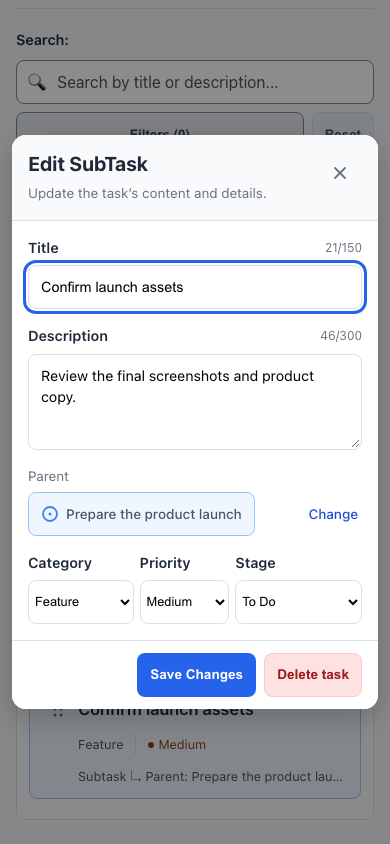
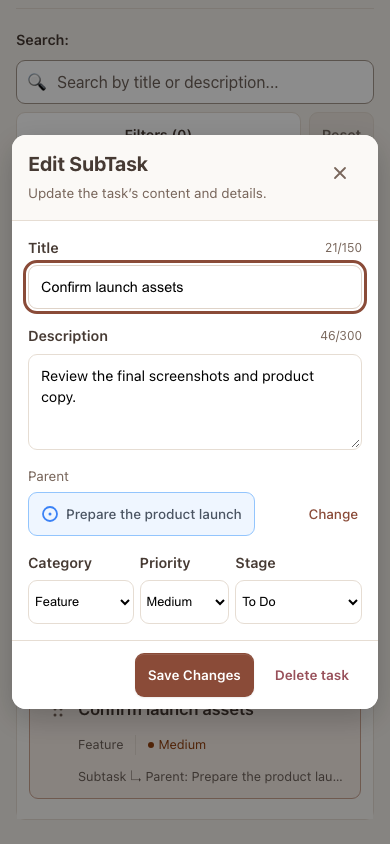
feat: apply warm clay identity and refined action buttons

diff --git a/src/styles/tokens.css b/src/styles/tokens.css
@@ -1,32 +1,32 @@
 /* TaskFlow's light, single-board foundation. Roles may share values, not meaning. */
 :root {
-  --color-canvas: #f4f6f9;
+  --color-canvas: #f5f1eb;
   --color-surface: #ffffff;
-  --color-surface-inset: #e9eef5;
-  --color-surface-subtle: #f9fafb;
-  --color-surface-hover: #f3f4f6;
-  --color-text-primary: #1f2937;
-  --color-text-secondary: #4b5563;
-  --color-text-muted: #6b7280;
-  --color-text-title: #000000;
+  --color-surface-inset: #eee8df;
+  --color-surface-subtle: #fbf9f6;
+  --color-surface-hover: #f7eee8;
+  --color-text-primary: #463a33;
+  --color-text-secondary: #6e625a;
+  --color-text-muted: #78665b;
+  --color-text-title: #352c27;
   --color-text-on-action: #ffffff;
-  --color-border: #d8e0ea;
-  --color-control-border: #7c8798;
-  --color-control-border-hover: #64748b;
-  --color-scrollbar: #cbd5e1;
-  --color-scrollbar-hover: #94a3b8;
+  --color-border: #e6ddd3;
+  --color-control-border: #a4978c;
+  --color-control-border-hover: #80665a;
+  --color-scrollbar: #d6c8bd;
+  --color-scrollbar-hover: #b39b8c;
 
-  --color-action-primary: #2563eb;
-  --color-action-primary-hover: #1d4ed8;
-  --color-action-primary-active: #1e40af;
-  --color-action-secondary: #e5e7eb;
-  --color-action-secondary-hover: #d1d5db;
-  --color-action-secondary-text: #374151;
-  --color-action-subtle: #dbeafe;
-  --color-action-subtle-hover: #bfdbfe;
-  --color-action-subtle-text: #1d4ed8;
-  --color-action-subtle-border: #bfdbfe;
-  --color-action-quiet: #eff6ff;
+  --color-action-primary: #8a4b38;
+  --color-action-primary-hover: #703c2d;
+  --color-action-primary-active: #603225;
+  --color-action-secondary: #ffffff;
+  --color-action-secondary-hover: #f7eee8;
+  --color-action-secondary-text: #463a33;
+  --color-action-subtle: #f7eee8;
+  --color-action-subtle-hover: #efe1d7;
+  --color-action-subtle-text: #8a4b38;
+  --color-action-subtle-border: #e6ddd3;
+  --color-action-quiet: #fbf6f2;
   --color-action-danger: #dc2626;
   --color-action-danger-hover: #b91c1c;
   --color-action-danger-subtle: #fee2e2;
@@ -34,12 +34,22 @@
   --color-action-danger-quiet: #fff1f2;
   --color-action-danger-text: #991b1b;
   --color-action-danger-border: #fecaca;
-  --color-action-disabled: #e9eef5;
-  --color-action-disabled-text: #4b5563;
-  --color-selected-surface: #eff6ff;
-  --color-selected-border: #93c5fd;
-  --color-selected-border-hover: #60a5fa;
-  --color-focus: #2563eb;
+  --color-action-disabled: #eee8e1;
+  --color-action-disabled-text: #786d64;
+  --color-selected-surface: #f7eee8;
+  --color-selected-border: #caa28f;
+  --color-selected-border-hover: #a97459;
+  --color-focus: #8a4b38;
+  /* Linked-parent identity is retained from the approved chip design. */
+  --color-parent-surface: #eff6ff;
+  --color-parent-border: #93c5fd;
+  --color-parent-hover: #dbeafe;
+  --color-parent-border-hover: #60a5fa;
+  --color-parent-text: #4b5563;
+  --color-parent-icon: #3b82f6;
+  --color-linked-completion: #2563eb;
+  --color-action-danger-quiet-text: #98505a;
+  --color-action-danger-quiet-hover: #f9eeef;
   --color-focus-halo: #ffffff;
 
   --color-feedback-success-surface: #dcfce7;
@@ -98,9 +108,9 @@
   --color-stage-done-border: #7c3aed;
   --color-completion-text: #15803d;
   --color-completion-surface: #dcfce7;
-  --color-progress-surface: #f8fbff;
-  --color-progress-track: #dbeafe;
-  --color-progress-fill: #3b82f6;
+  --color-progress-surface: #fbf8f5;
+  --color-progress-track: #efe1d7;
+  --color-progress-fill: #a16b55;
 
   /* #99 states are presentation roles, not limits or enforcement. */
   --color-capacity-available-text: var(--color-text-secondary);
@@ -144,7 +154,7 @@
   --size-viewport-min: 320px;
   --border-width: 1px;
   --radius-compact: 6px;
-  --radius-control: 8px;
+  --radius-control: 9px;
   --radius-panel: 12px;
   --radius-column: 16px;
   --radius-pill: 999px;
@@ -153,6 +163,7 @@
   --shadow-raised: 0 4px 12px rgba(0, 0, 0, 0.12);
   --shadow-overlay: 0 8px 20px rgba(0, 0, 0, 0.16);
   --shadow-dialog: 0 10px 30px rgba(0, 0, 0, 0.2);
+  --shadow-control: inset 0 1px 0 rgba(255, 255, 255, .1), 0 1px 2px rgba(70, 58, 51, .1);
   --shadow-action: 0 4px 10px rgba(0, 0, 0, 0.15);
   --overlay-dialog: rgba(0, 0, 0, 0.45);
   --overlay-confirm: rgba(0, 0, 0, 0.55);

diff --git a/src/components/TaskDetails/TaskDetails.tsx b/src/components/TaskDetails/TaskDetails.tsx
@@ -1,3 +1,4 @@
+import ActionIcon from "../ui/ActionIcon/ActionIcon";
 import { useId, useRef, useState, type ReactNode } from "react";
 import { type TaskStatus, type Task } from "../../domain/task/Task";
 import { findTask, getChildren, getChildProgress, getParent } from "../../domain/board/taskRelationships";
@@ -59,9 +60,9 @@ export default function TaskDetails(props: TaskFormProps & { task: Task; onChang
             <dl className="task-details-dates"><div><dt>Created</dt><dd>{task.createdAt.toLocaleString()}</dd></div></dl>
           </div>
           <footer className="task-details-footer task-action-footer">
-            {!task.parentId && task.status !== "done" && <button type="button" id={`${id}-child`} className="edit-task-button add-editor-subtask" aria-label={`Add SubTask to ${task.title}`} onClick={() => setView("child")}>Add Subtask</button>}
-            <Button id={`${id}-edit`} onClick={() => setView("edit")}>Edit task</Button>
-            {onDelete && <Button variant="danger" aria-label={`Delete ${task.title}`} onClick={() => onDelete(task.id)}>Delete task</Button>}
+            {!task.parentId && task.status !== "done" && <button type="button" id={`${id}-child`} className="edit-task-button add-editor-subtask" aria-label={`Add SubTask to ${task.title}`} onClick={() => setView("child")}><ActionIcon name="plus"/>Add Subtask</button>}
+            <Button icon="edit" id={`${id}-edit`} onClick={() => setView("edit")}>Edit task</Button>
+            {onDelete && <Button icon="trash" variant="danger" aria-label={`Delete ${task.title}`} onClick={() => onDelete(task.id)}>Delete task</Button>}
           </footer></>}
         </div>
       </div>

diff --git a/src/components/TaskForm/TaskForm.tsx b/src/components/TaskForm/TaskForm.tsx
@@ -1,3 +1,4 @@
+import ActionIcon from "../ui/ActionIcon/ActionIcon";
 import SubtaskList from "../SubtaskList/SubtaskList";
 import "../../styles/task-dialog.css";
 import "./TaskForm.css";
@@ -355,11 +356,11 @@ export default function TaskForm({
 
           </div>
           <div className="create-task-actions task-action-footer">
-            {currentTask && !isSubtask && currentTask.status !== "done" && <button type="button" id={`${fieldPrefix}-add-subtask`} className="edit-task-button add-editor-subtask" aria-label={`Add SubTask to ${currentTask.title}`} onClick={() => setSubtaskEditor({ type: "create" })}>Add Subtask</button>}
+            {currentTask && !isSubtask && currentTask.status !== "done" && <button type="button" id={`${fieldPrefix}-add-subtask`} className="edit-task-button add-editor-subtask" aria-label={`Add SubTask to ${currentTask.title}`} onClick={() => setSubtaskEditor({ type: "create" })}><ActionIcon name="plus"/>Add Subtask</button>}
             <Button type="submit">
               {isEditing ? "Save Changes" : parent ? "Create SubTask" : "Create Task"}
             </Button>
-            {currentTask && onDelete && <Button variant="danger" aria-label={`Delete ${currentTask.title}`} onClick={() => onDelete(currentTask.id)}>Delete task</Button>}
+            {currentTask && onDelete && <Button icon="trash" variant="danger" aria-label={`Delete ${currentTask.title}`} onClick={() => onDelete(currentTask.id)}>Delete task</Button>}
           </div>
         </form>
       </div>

diff --git a/src/components/ui/Button/Button.css b/src/components/ui/Button/Button.css
@@ -1,8 +1,15 @@
 .ui-button {
+  display: inline-flex;
+  align-items: center;
+  justify-content: center;
+  gap: 6px;
   min-width: var(--size-touch-target);
   min-height: var(--size-touch-target);
   max-width: 100%;
-  padding: 10px 18px;
+  padding: 10px 14px;
+  font-family: inherit;
+  font-size: var(--font-size-label);
+  line-height: 1.2;
   border: var(--border-width) solid transparent;
   border-radius: var(--radius-control);
   font-weight: var(--font-weight-label);
@@ -12,6 +19,7 @@
 }
 
 .ui-button--primary {
+  box-shadow: var(--shadow-control);
   background: var(--color-action-primary);
   color: var(--color-text-on-action);
 }
@@ -21,7 +29,7 @@
 .ui-button--secondary {
   background: var(--color-action-secondary);
   color: var(--color-action-secondary-text);
-  border-color: var(--color-control-border);
+  border-color: var(--color-border);
 }
 .ui-button--secondary:hover:not(:disabled),
 .ui-button--secondary:active:not(:disabled) { background: var(--color-action-secondary-hover); }
@@ -43,8 +51,15 @@
   color: var(--color-action-disabled-text);
   border-color: var(--color-border);
   cursor: not-allowed;
+  box-shadow: none;
 }
 
 @media (prefers-reduced-motion: reduce) {
-  .ui-button { transition: none; }
+  .ui-button {
+  display: inline-flex;
+  align-items: center;
+  justify-content: center;
+  gap: 6px; transition: none; }
 }
+
+.action-icon { flex-shrink: 0; }

diff --git a/src/components/TaskParentLink/TaskParentLink.css b/src/components/TaskParentLink/TaskParentLink.css
@@ -6,22 +6,22 @@
   min-width: 0;
   max-width: 100%;
   padding: 6px 12px;
-  border: 1px solid var(--color-selected-border);
+  border: 1px solid var(--color-parent-border);
   border-radius: var(--radius-pill);
-  background: var(--color-selected-surface);
-  color: var(--color-text-secondary);
+  background: var(--color-parent-surface);
+  color: var(--color-parent-text);
   font: inherit;
   font-size: var(--font-size-support);
   cursor: pointer;
 }
-.editor-parent-pill:hover { border-color: var(--color-selected-border-hover); background: var(--color-action-subtle); }
+.editor-parent-pill:hover { border-color: var(--color-parent-border-hover); background: var(--color-parent-hover); }
 .editor-parent-pill:focus-visible {
   outline: var(--focus-ring);
   box-shadow: var(--focus-shadow);
   outline-offset: var(--focus-offset-inset);
 }
-.parent-pill-icon { flex-shrink: 0; color: var(--color-progress-fill); }
-.parent-pill-icon.is-complete { color: var(--color-selected-border-hover); }
+.parent-pill-icon { flex-shrink: 0; color: var(--color-parent-icon); }
+.parent-pill-icon.is-complete { color: var(--color-parent-border-hover); }
 .editor-parent-pill > span:not(.parent-pill-title) { flex-shrink: 0; white-space: nowrap; }
 .parent-pill-title {
   min-width: 0;

diff --git a/src/components/ui/Button/Button.test.tsx b/src/components/ui/Button/Button.test.tsx
@@ -6,9 +6,10 @@ import Button from "./Button";
 
 it("forwards native attributes, ref, accessible name and mouse events", async () => {
   const user = userEvent.setup(), click = vi.fn(), ref = createRef<HTMLButtonElement>();
-  render(<Button ref={ref} id="retry" name="intent" value="retry" aria-label="Retry saving" aria-describedby="reason" data-initial-focus className="local" variant="secondary" onClick={click}>Retry</Button>);
+  render(<Button icon="plus" ref={ref} id="retry" name="intent" value="retry" aria-label="Retry saving" aria-describedby="reason" data-initial-focus className="local" variant="secondary" onClick={click}>Retry</Button>);
   const button = screen.getByRole("button", { name: "Retry saving" });
   expect(ref.current).toBe(button);
+  expect(button.querySelector("svg")).toHaveAttribute("aria-hidden", "true");
   expect(button).toHaveAttribute("id", "retry");
   expect(button).toHaveAttribute("name", "intent");
   expect(button).toHaveAttribute("value", "retry");

diff --git a/src/components/ui/Button/Button.tsx b/src/components/ui/Button/Button.tsx
@@ -1,13 +1,15 @@
 import type { ComponentPropsWithRef } from "react";
 import "./Button.css";
+import ActionIcon, { type ActionIconName } from "../ActionIcon/ActionIcon";
 
 export type ButtonProps = ComponentPropsWithRef<"button"> & {
+  icon?: ActionIconName;
   variant?: "primary" | "secondary" | "danger";
 };
 
 /** Native button behavior, including refs and explicit submit intent. */
 export default function Button({
-  variant = "primary", type = "button", className = "", ...props
+  variant = "primary", type = "button", className = "", icon, children, ...props
 }: ButtonProps) {
-  return <button {...props} type={type} className={`ui-button ui-button--${variant}${className ? ` ${className}` : ""}`} />;
+  return <button {...props} type={type} className={`ui-button ui-button--${variant}${className ? ` ${className}` : ""}`}>{icon && <ActionIcon name={icon}/>}{children}</button>;
 }

diff --git a/src/styles/task-actions.css b/src/styles/task-actions.css
@@ -20,12 +20,13 @@
   white-space: nowrap;
 }
 .task-action-footer .ui-button--danger {
-  background: var(--color-action-danger-subtle);
-  color: var(--color-action-danger-text);
-  border-color: var(--color-action-danger-border);
+  background: transparent;
+  color: var(--color-action-danger-quiet-text);
+  border-color: transparent;
 }
-.task-action-footer .ui-button--danger:hover:not(:disabled) {
-  background: var(--color-action-danger-subtle-hover);
+.task-action-footer .ui-button--danger:hover:not(:disabled),
+.task-action-footer .ui-button--danger:active:not(:disabled) {
+  background: var(--color-action-danger-quiet-hover);
 }
 @media (max-width: 360px) {
   .task-details-footer.task-action-footer,
@@ -36,3 +37,5 @@
     font-size: var(--font-size-compact);
   }
 }
+
+@media (max-width: 420px) { .task-action-footer .action-icon { display: none; } }

diff --git a/src/styles/controls.css b/src/styles/controls.css
@@ -21,6 +21,7 @@
   border-radius: var(--radius-control);
   padding: 5px 9px;
   cursor: pointer;
+  font-family: inherit;
   font-size: var(--font-size-compact);
   font-weight: var(--font-weight-label);
   white-space: nowrap;
@@ -32,13 +33,13 @@
 }
 
 .edit-task-button {
-  background: var(--color-action-subtle);
-  color: var(--color-action-subtle-text);
+  background: var(--color-surface);
+  color: var(--color-text-primary);
   border: 1px solid var(--color-action-subtle-border);
 }
 
 .edit-task-button:hover {
-  background: var(--color-action-subtle-hover);
+  background: var(--color-surface-hover);
 }
 
 .delete-task-button {
@@ -57,3 +58,5 @@
     flex-direction: column;
   }
 }
+
+.edit-task-button { display: inline-flex; align-items: center; justify-content: center; gap: 6px; box-shadow: 0 1px 2px rgba(70, 58, 51, .04); }

diff --git a/src/components/AppShell/AppShell.tsx b/src/components/AppShell/AppShell.tsx
@@ -24,7 +24,7 @@ export default function AppShell({ lastUpdated, onCreateTask, feedback, toolbar,
           <p>Rule-Based Workflow Board</p>
           <p className="last-updated">Last updated: <time dateTime={lastUpdated.toISOString()}>{updated}</time></p>
         </div>
-        <Button className="shell-create-task" data-focus-fallback onClick={onCreateTask}>+ Create Task</Button>
+        <Button icon="plus" aria-label="+ Create Task" className="shell-create-task" data-focus-fallback onClick={onCreateTask}>Create Task</Button>
       </header>
       <main className="app-shell-main" aria-label="Task board">
         <div className="app-shell-feedback">{feedback}</div>

diff --git a/src/components/ui/ActionIcon/ActionIcon.tsx b/src/components/ui/ActionIcon/ActionIcon.tsx
@@ -1,0 +1,9 @@
+export type ActionIconName = "plus" | "edit" | "trash";
+const paths: Record<ActionIconName, string> = {
+  plus: "M8 3v10M3 8h10",
+  edit: "m10.7 2.8 2.5 2.5M3 13l3.1-.6 7-7a1.8 1.8 0 0 0-2.5-2.5l-7 7L3 13Z",
+  trash: "M2.5 4.5h11M6 4.5V2.7h4v1.8M4 4.5l.6 9h6.8l.6-9M6.5 7v4M9.5 7v4",
+};
+export default function ActionIcon({ name }: { name: ActionIconName }) {
+  return <svg className="action-icon" aria-hidden="true" focusable="false" width="14" height="14" viewBox="0 0 16 16" fill="none" stroke="currentColor" strokeWidth="1.5" strokeLinecap="round" strokeLinejoin="round"><path d={paths[name]}/></svg>;
+}

diff --git a/src/components/ui/CompletionMark/CompletionMark.css b/src/components/ui/CompletionMark/CompletionMark.css
@@ -1,2 +1,2 @@
 .completion-mark { display: inline-flex; align-items: center; justify-content: center; flex-shrink: 0; width: 18px; height: 18px; border: 1.5px solid var(--color-control-border); border-radius: 50%; vertical-align: middle; }
-.completion-mark.is-complete { background: var(--color-action-primary); border-color: var(--color-action-primary); color: var(--color-text-on-action); }
+.completion-mark.is-complete { background: var(--color-linked-completion); border-color: var(--color-linked-completion); color: var(--color-text-on-action); }
